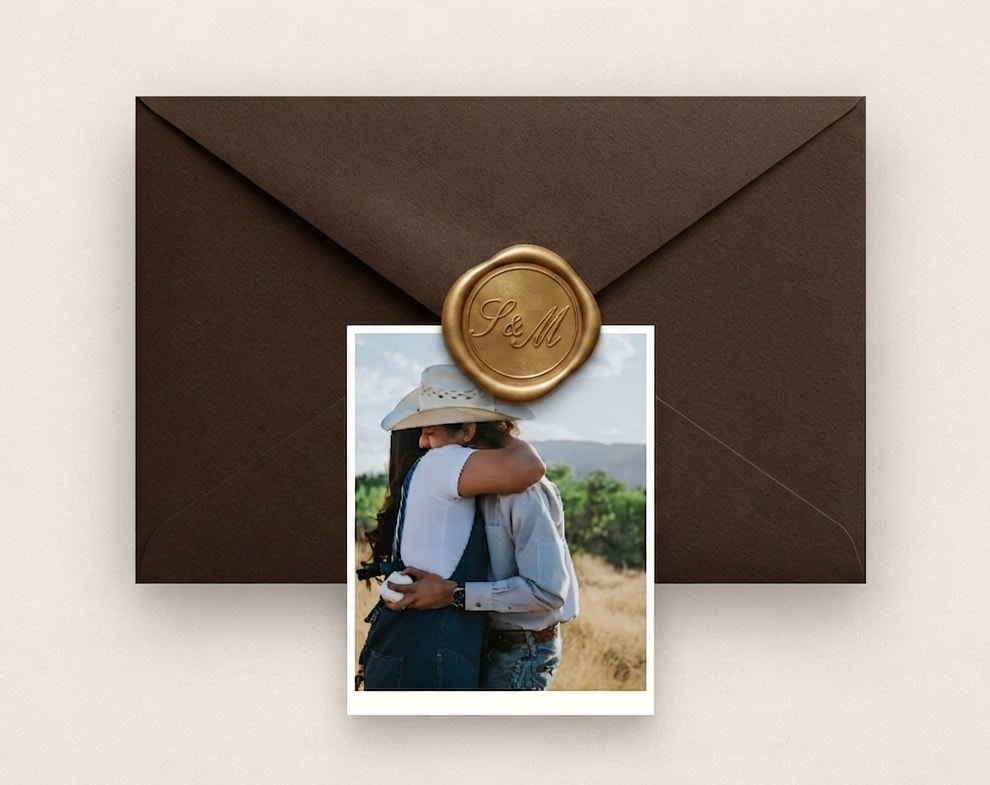
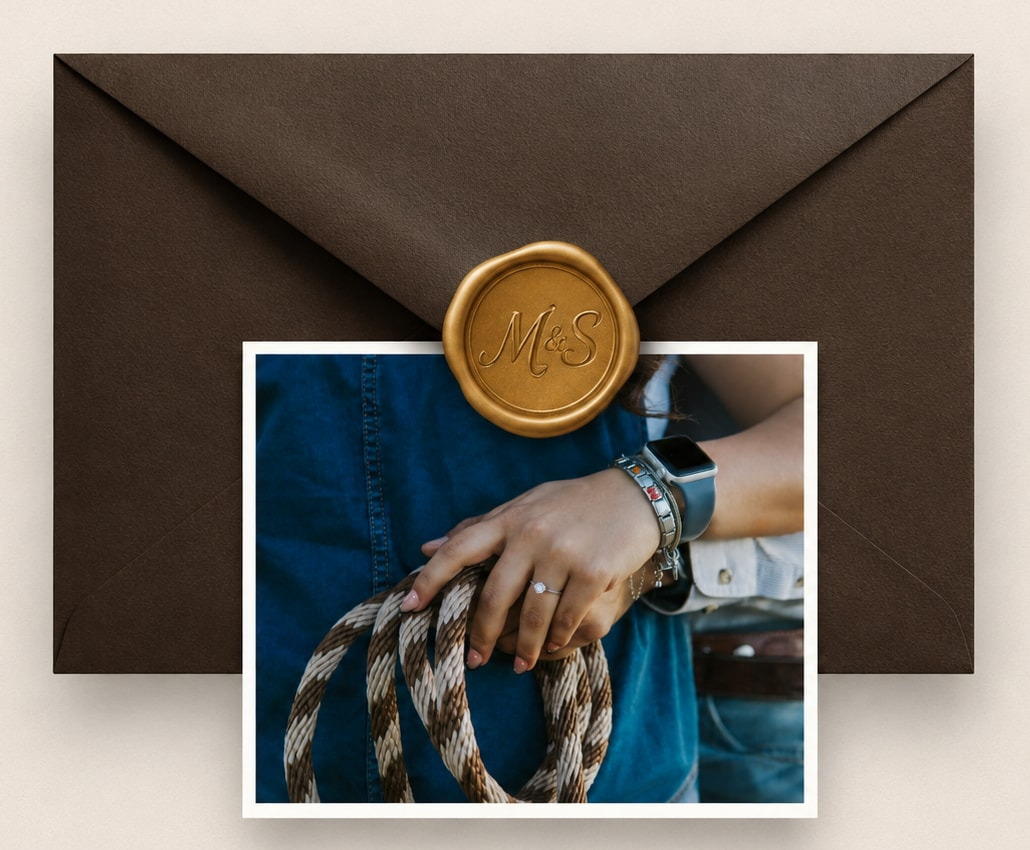
Reemplazar foto del sobre con la nueva imagen (anillo/cuerda)

diff --git a/index.html b/index.html
@@ -186,7 +186,7 @@ body.gate-open{overflow:hidden}
 <body class="gate-open">
 <div class="envelope-gate" id="envelopeGate">
   <div class="envelope-wrap" id="envelope" role="button" tabindex="0" aria-label="Abrir invitación">
-    <img src="assets/img/sobre.jpg?v=2" alt="Sobre de la invitación de Samuel y Mildred">
+    <img src="assets/img/sobre.jpg?v=3" alt="Sobre de la invitación de Samuel y Mildred">
     <div class="envelope-hint">Toca aquí</div>
   </div>
 </div>
